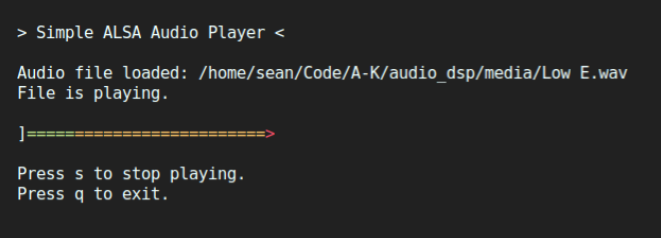
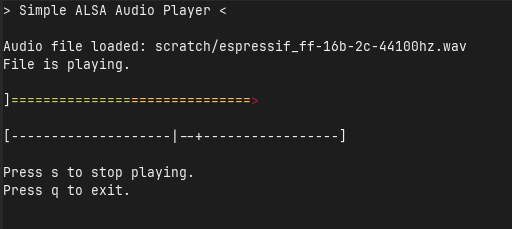
Add playback progress bar

Changed region(s): [[0.0, 0.0, 0.9688, 0.4585], [0.0, 0.7031, 0.375, 0.8559], [0.0, 0.5197, 0.6875, 0.6114]]

diff --git a/src/audio_player/lib/console_manager.h b/src/audio_player/lib/console_manager.h
@@ -37,6 +37,8 @@ class ConsoleManager {
         if (mAudioPlayer.currentState() == State::Playing) {
             mConsole.addString("File is playing.");
             incCurrentLine(1);
+        } else if (mAudioPlayer.currentState() == State::Stopped) {
+            incCurrentLine(1);
         }
         incCurrentLine(1);
     }
@@ -134,6 +136,25 @@ class ConsoleManager {
         mConsole.redOnBlack();
         mConsole.addChar('>');
         mConsole.whiteOnBlack();
+        incCurrentLine(2);
+    }
+
+    void showTimeBar(float propDone) {
+        constexpr int BAR_WIDTH = 41;
+
+        mConsole.addChar('[');
+        for (int i = 0; i < BAR_WIDTH; i++) {
+            int current = BAR_WIDTH * propDone;
+            if (i == current) {
+                mConsole.addChar('+');
+            } else if (i == BAR_WIDTH / 2) {
+                mConsole.addChar('|');
+            } else {
+                mConsole.addChar('-');
+            }
+        }
+
+        mConsole.addChar(']');
         incCurrentLine(2);
     }
 

diff --git a/src/audio_player/audio_player_main.cpp b/src/audio_player/audio_player_main.cpp
@@ -47,15 +47,20 @@ int main() {
         manager.showHeader();
         manager.showFileStatus();
 
-        // Display sound level if playing.
+        // Display sound level and progress bar if file loaded.
         if (player.currentState() == State::Playing) {
             if (subsampleCounter % subsampleRate == 0) {
                 intensitySample =
                     std::max(0.0f, 0.0f + player.appState().mPlaybackState.mAvgIntensity);
             }
             manager.showSoundLevel(intensitySample);
+
+            float propDone = static_cast<float>(player.appState().mPlaybackState.mTickNum) /
+                             player.appState().mPlaybackState.mNumTicks;
+            manager.showTimeBar(propDone);
         } else if (player.currentState() == State::Stopped) {
             manager.showSoundLevel(0.0f);
+            manager.showTimeBar(0.0f);
         }
 
         manager.showOptions();

diff --git a/src/audio_player/lib/audio_player_app.h b/src/audio_player/lib/audio_player_app.h
@@ -244,7 +244,9 @@ class AudioPlayer {
         switch (event) {
         case KeyEvent::KEY_s: {
             mAppState.mPlaybackState.mPlaying = false;
+            // TODO: Maybe add code to stop and resume thread.
             shutdownPlaybackThread();
+            resetPlaybackStates();
             break;
         }
         default: {
@@ -289,6 +291,12 @@ class AudioPlayer {
         mAppState.mPlaybackThread->join();
         mAppState.mPlaybackThread = nullptr;
         mAppState.mCurrentState = State::Stopped;
+    }
+
+    void resetPlaybackStates() {
+        mAppState.mPlaybackState.mAvgIntensity = 0.0;
+        mAppState.mPlaybackState.mNumTicks = 0;
+        mAppState.mPlaybackState.mTickNum = 0;
     }
 
   private:

diff --git a/src/audio_player/lib/alsa_player.cpp b/src/audio_player/lib/alsa_player.cpp
@@ -56,6 +56,9 @@ bool AlsaPlayer::play() {
     // Real-time loop.
 
     mState.mPlaying = true;
+    mState.mNumTicks = numPeriods;
+    mState.mTickNum = 0;
+
     for (std::size_t i = 0; i < numPeriods && mState.mPlaying; i++) {
         // NOTE: This knows how many bytes each frame contains.
         // This will buffer frames for playback by the sound card;
@@ -84,7 +87,9 @@ bool AlsaPlayer::play() {
             }
             // Avgerage with RMS volume in decibels.
             runningAvg = 0.6 * runningAvg + 0.4 * 10 * std::log(frameAvg);
+
             mState.mAvgIntensity = runningAvg;
+            mState.mTickNum = i;
         }
 
         // Increment data pointer to start of next frame.

diff --git a/src/audio_player/lib/alsa_player.h b/src/audio_player/lib/alsa_player.h
@@ -10,6 +10,7 @@
 
 #include <alsa/asoundlib.h>
 #include <atomic>
+#include <cstddef>
 #include <memory>
 
 // ----------------------------
@@ -18,6 +19,8 @@
 struct SharedPlaybackState {
     std::atomic_bool mPlaying;
     std::atomic<float> mAvgIntensity;
+    std::atomic<std::size_t> mTickNum;
+    std::atomic<std::size_t> mNumTicks;
 };
 
 // -----------------------------------------------

diff --git a/README.md b/README.md
@@ -15,7 +15,8 @@ For loading the file's data it uses
 	<img src="images/audio_player.png" alt="drawing" width="500"/>
 </p>
 
-The colorful arrow in the middle of the image is a real-time sound level indicator.
+The colorful arrow in the middle of the image is a real-time sound level indicator, and
+the line below it is a progress bar showing how much of the file has played.
 
 __Main files:__
 
@@ -55,4 +56,4 @@ while the audio is playing.
 + I also plan to work on some more interesting visualization options--like a spectral analysis,
 for example--that can be shown while the audio is playing.
 
-+ I will add a running time display to the UI, eventually with pause and seek controls.
++ I will add real times to the UI progress bar, and eventually pause and seek controls.
